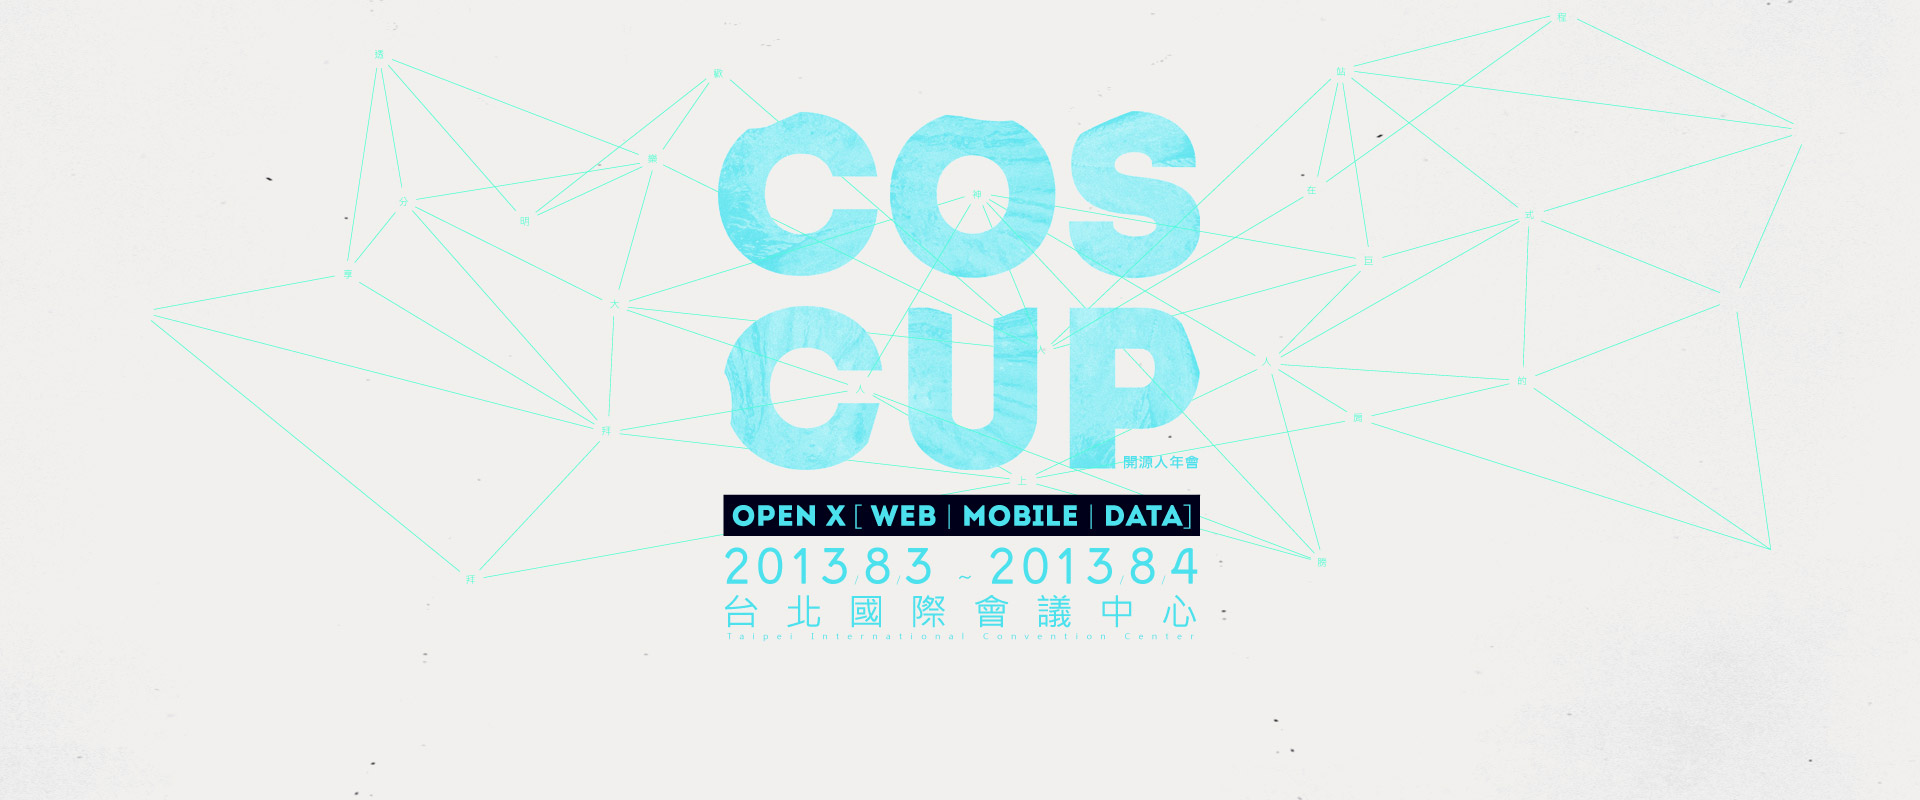
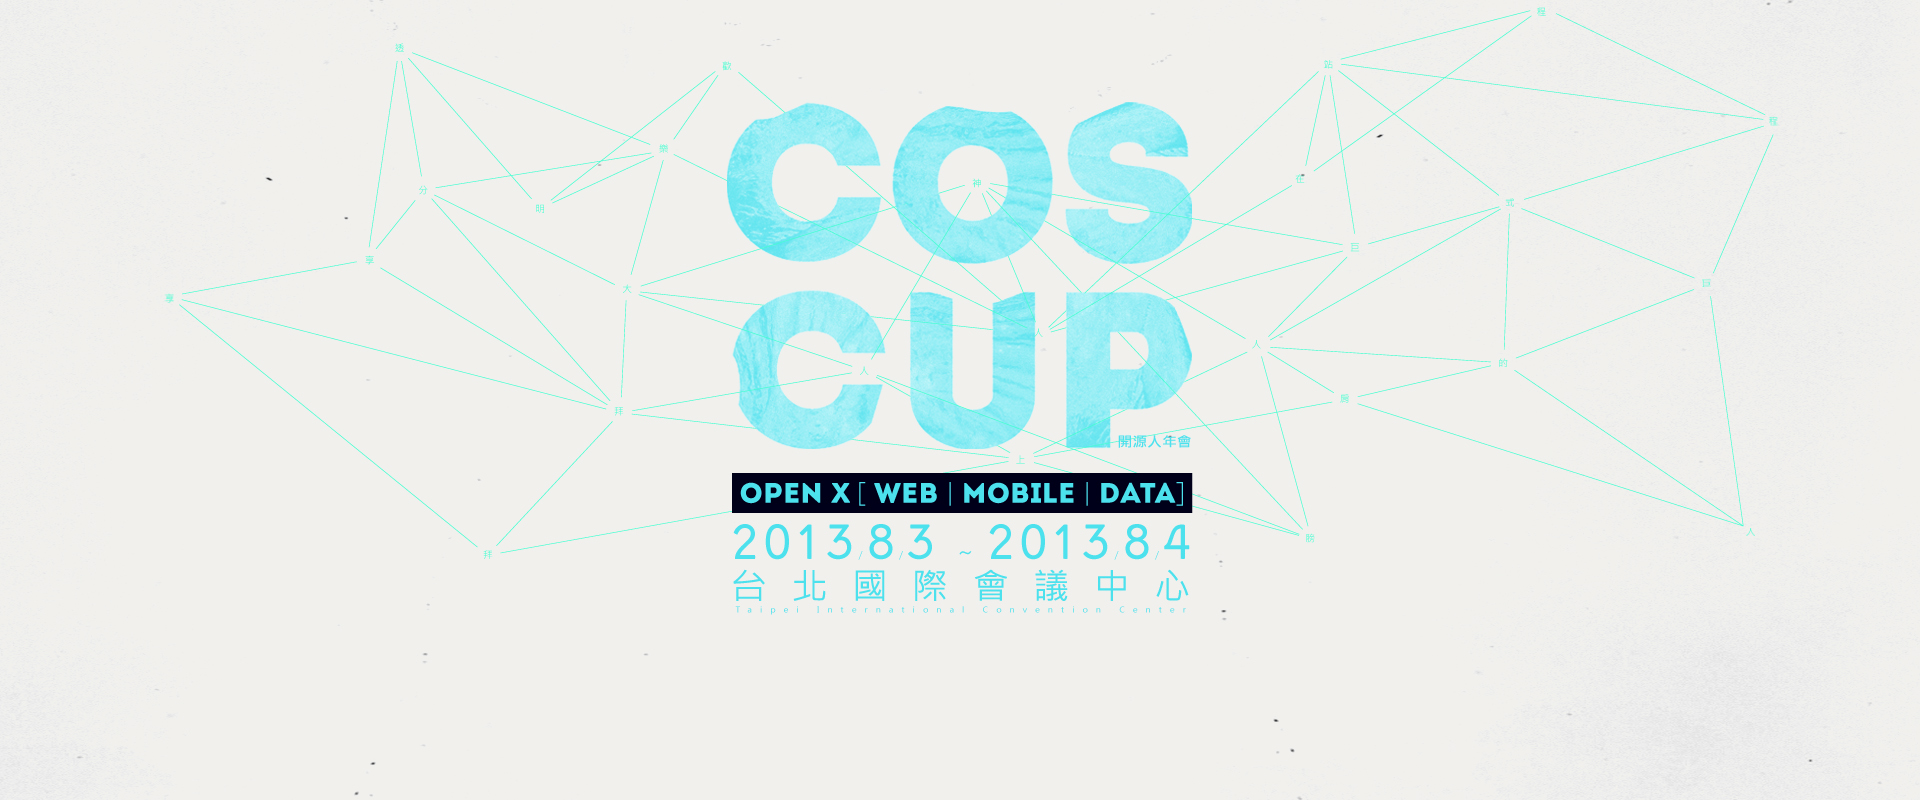
update main page for the broken cfa button.

diff --git a/index.html b/index.html
@@ -49,7 +49,7 @@
 
 <body>
 <div id="mainpage" class="page current">
-  <div class="logo"><a href="index.html">coscup2013</a></div>
+  <div class="logo"><a href="http://coscup.org/2013/"></a>COSCUP2013</div>
   <div class="m_main"><img src="images/mobile/m_main.jpg" width="100%"/></div>
   <ul class="cfa">
     <li><a href="mailto:sponsorship@coscup.org" target="_blank">Call for Sponsor</a></li>
@@ -68,7 +68,7 @@
 
 <div id="openwall" class="page next">
   <div id="panel-container">
-    <div id="logo"><a href="http://coscup.org/2013/"></a></div>
+    <div class="logo"><a href="http://coscup.org/2013/">COSCUP2013</a></div>
     <div id="panel"></div>
     <div id="callforphoto">
       <p class="title">OPEN 照片大募集 &raquo; </p>

diff --git a/css/coscup.css b/css/coscup.css
@@ -20,7 +20,7 @@
 .page.current {
   transform: translateX(0);
   -webkit-transform: translateX(0);
-  overflow-y: scroll;
+  height: auto;
 }
 .page.next {
   transform: translateX(+100%);
@@ -50,14 +50,9 @@
 #openwall a {
   color: #369;
 }
-#openwall #logo a {
-  background: transparent url('../images/coscup.png') 0 0 no-repeat;
-  height: 33px;
-  width: 100%;
+#openwall .logo {
   position: absolute;
-  text-indent: -9999px;
-  top: 5px;
-  z-index: 99;
+  width: 100%;
 }
 
 #openwall li hr {
@@ -177,8 +172,7 @@
   #openwall #panel-container {
     width: 306px;
   }
-  #openwall #logo a {
-    top: 0;
+  #openwall .logo {
     background: black url('../images/coscup.png') center center no-repeat;
     width: 100%;
   }

diff --git a/css/style.css b/css/style.css
@@ -22,16 +22,14 @@ body {
 
 #mainpage {
 	color: #000;
-	background: url(../images/main.jpg) #f1f0ed center top no-repeat ;
+	background: url(../images/main.jpg) #f1f0ed center top no-repeat;
 }
 
-.logo a {
-  width: 90px;
-  height: 33px;
-  background: url(../images/logo.png) no-repeat;
-  display: block;
+.logo {
+  height: 40px;
+  background: transparent url('../images/coscup.png') 15px 5px no-repeat;
   text-indent: -9999px;
-  margin: 10px 0 0 15px;
+  z-index: 99;
 }
 
 .sharing {
@@ -48,8 +46,8 @@ body {
 
 .cfa {
 	width: 485px;
-	margin: 0 auto ;
-	padding-top: 615px;
+	margin: 0 auto;
+	padding-top: 585px;
 	padding-left: 16px;
 	min-height: 50px;
 }

diff --git a/css/mobile.css b/css/mobile.css
@@ -21,7 +21,7 @@ body {
 	
 .clear { clear:both; }
 
-.logo a {
+.logo {
   width: 100%;
   height: 33px;
   background: url(../images/logo.png) no-repeat center;
